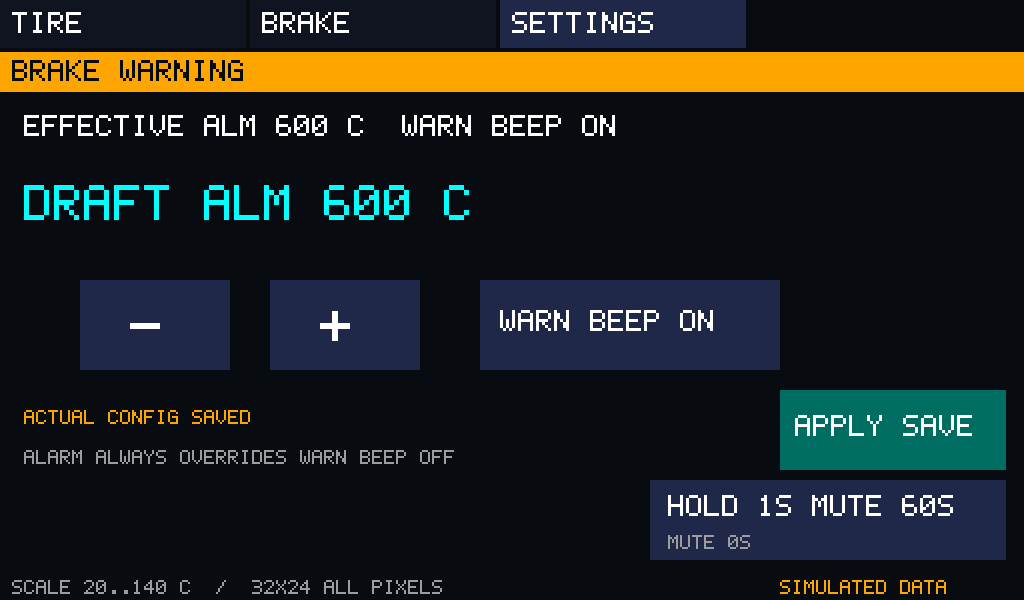
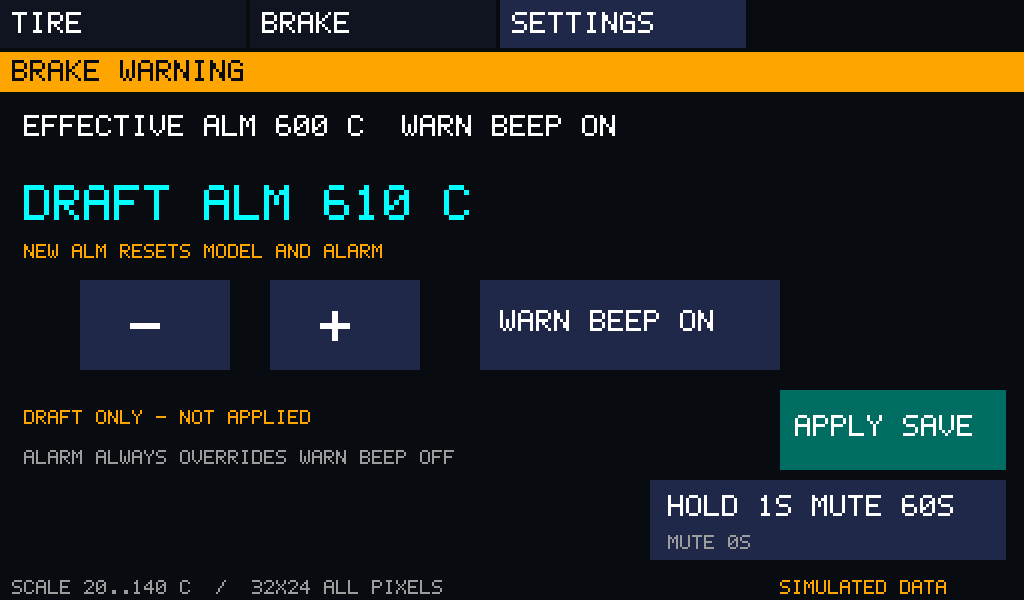
fix: 修复六口控制会话重放与设置结果确认

diff --git a/tests/wired_tire/test_brake_client.cpp b/tests/wired_tire/test_brake_client.cpp
@@ -1,9 +1,18 @@
 #include "board_test_support.h"
 #include "BrakeLinkMaster.h"
 #include <cstring>
+#include "ui_test_support.h"
 static BrakeCommand queued(){BrakeCommand c{};uint32_t t=0;CHECK(decodeBrakeRequest(static_cast<const uint8_t*>(test_hw::masterTransaction->tx_buffer),256,c,t));return c;}
-static void reply(BrakeLinkMaster&client,BrakeTelemetry s,uint64_t now){BrakeDelivery out{};client.poll(now,out);BrakeCommand c{};uint32_t token=0;auto*t=test_hw::masterTransaction;CHECK(decodeBrakeRequest(static_cast<const uint8_t*>(t->tx_buffer),256,c,token));CHECK(encodeBrakeStatus(s,token,static_cast<uint8_t*>(t->rx_buffer),256));test_hw::masterDone=true;CHECK(client.poll(now+1000,out));}
+static BrakeDelivery reply(BrakeLinkMaster&client,BrakeTelemetry s,uint64_t now){BrakeDelivery out{};client.poll(now,out);BrakeCommand c{};uint32_t token=0;auto*t=test_hw::masterTransaction;CHECK(decodeBrakeRequest(static_cast<const uint8_t*>(t->tx_buffer),256,c,token));CHECK(encodeBrakeStatus(s,token,static_cast<uint8_t*>(t->rx_buffer),256));test_hw::masterDone=true;CHECK(client.poll(now+1000,out));return out;}
 int main(){
+ runTest("unknown_readback_terminal_survives_real_ingest_then_pending_result_order",[]{for(auto terminal:{AckResult::AppliedSaved,AckResult::StorageFailed}){
+  BoardSpiBus bus;CHECK(bus.begin(busProfile()));BrakeLinkMaster client(bus);TelemetryUi ui;auto s=validBrakeTelemetry();auto d=reply(client,s,0);ui.ingest(d,1000);tap(ui,650,20,1000);
+  for(unsigned i=0;i<5;++i)tap(ui,300,320,100000+i*100000);CHECK(ui.draft().alarmC==650);auto action=tap(ui,850,420,650000);CHECK(action.kind==UiActionKind::Apply);
+  d=reply(client,s,750000);ui.ingest(d,751000);CHECK(client.submit(action.intent)==SubmitResult::Accepted);ui.commandResult(client.pendingResult());BrakeDelivery ignored{};client.poll(752000,ignored);auto c=queued();CHECK(c.op==CommandOp::ApplySave);
+  s.ack={AckResult::OutcomeUnknown,c.op,c.hostBootId,c.commandId,c.targetBrakeBootId,1};d=reply(client,s,752001);ui.ingest(d,753001);ui.commandResult(client.pendingResult());CHECK(ui.result()==AckResult::OutcomeUnknown);
+  s.ack.result=terminal;if(terminal==AckResult::AppliedSaved){s.config={650,true};s.configVersion=s.savedVersion=s.ack.configVersion=2;}
+  d=reply(client,s,1004000);ui.ingest(d,1005000);ui.commandResult(client.pendingResult());CHECK(client.pendingResult().result==terminal&&ui.result()==terminal);
+ }});
  runTest("timeout_inside_retry_window_stops_all_future_mutations",[]{BoardSpiBus bus;CHECK(bus.begin(busProfile()));BrakeLinkMaster client(bus);auto s=validBrakeTelemetry();reply(client,s,0);CHECK(client.submit({CommandOp::ApplySave,{650,true}})==SubmitResult::Accepted);reply(client,s,2000);reply(client,s,500000);
   BrakeDelivery out{};client.poll(950000,out);CHECK(queued().op==CommandOp::ApplySave);std::memset(test_hw::masterTransaction->rx_buffer,0,256);test_hw::masterDone=true;client.poll(1001001,out);CHECK(client.pendingResult().result==AckResult::OutcomeUnknown);CHECK(queued().op==CommandOp::Read);
  });

diff --git a/tests/wired_tire/test_telemetry_ui.cpp b/tests/wired_tire/test_telemetry_ui.cpp
@@ -2,6 +2,7 @@
 #include <fstream>
 static std::array<wired_tire::SnapshotDelivery,4> tires(){std::array<wired_tire::SnapshotDelivery,4>a{};for(unsigned w=0;w<4;++w){auto&s=a[w].snapshot;s.meta.wheel=wired_tire::WheelId(w+1);s.meta.bootId=1;s.meta.state=wired_tire::FrameState::Valid;s.ageMs=0;s.zones.mirrored=w%2;for(size_t p=0;p<768;++p){s.frame.temp10[p]=int16_t(200+p);s.frame.setValid(p,p!=300);}}return a;}
 int main(int argc,char**argv){
+ runTest("changing_alm_during_alarm_renders_reset_notice_before_apply",[]{TelemetryUi u;BrakeDelivery d{};d.state=validBrakeTelemetry();d.state.state=BrakeState::Alarm;u.ingest(d,0);tap(u,650,20,0);std::vector<uint16_t>before(1024*600),after(1024*600);wired_tire::PixelSurface a{before.data(),1024,600,1024,before.size()},b{after.data(),1024,600,1024,after.size()};u.render(tires(),50000,{},a);tap(u,300,320,100000);u.render(tires(),150000,{},b);bool changed=false;for(size_t y=244;y<260;++y)for(size_t x=24;x<650;++x)changed|=before[y*1024+x]!=after[y*1024+x];CHECK(changed&&u.effective().alarmC==600);});
  runTest("four_full_maps_mirror_invalid_pixels_survive_navigation_alarm",[]{TelemetryUi u;CHECK(u.page()==Page::Tire);BrakeDelivery d{};d.state=validBrakeTelemetry();d.state.state=BrakeState::Alarm;u.ingest(d,0);const auto a=tires();std::vector<uint16_t>pixels(1024*600+2,0xabcd);wired_tire::PixelSurface surface{pixels.data()+1,1024,600,1024,1024*600};u.render(a,0,{},surface);
   for(unsigned w=0;w<4;++w)for(unsigned r=0;r<24;++r)for(unsigned c=0;c<32;++c){const unsigned p=r*32+(w%2?31-c:c);const unsigned x=(w%2)*512+12+c*8+4,y=(w/2)*235+130+r*8+4;CHECK(surface.pixels[y*1024+x]==wired_tire::heatColor(a[w].snapshot.frame.temp10[p],p!=300,{}));}
   CHECK(pixels.front()==0xabcd&&pixels.back()==0xabcd);
@@ -17,6 +18,6 @@ int main(int argc,char**argv){
  });
  if(argc==3&&std::string(argv[1])=="--preview"){
   TelemetryUi u;uiState(u);auto a=tires();std::vector<uint16_t>p(1024*600);wired_tire::PixelSurface s{p.data(),1024,600,1024,p.size()};
-  for(unsigned page=0;page<3;++page){tap(u,uint16_t(100+page*250),20,page*100000);u.render(a,page*100000+50000,{},s,true);std::ofstream f(std::string(argv[2])+"-"+std::to_string(page)+".ppm",std::ios::binary);f<<"P6\n1024 600\n255\n";for(auto v:p){char rgb[]{char(((v>>11)&31)*255/31),char(((v>>5)&63)*255/63),char((v&31)*255/31)};f.write(rgb,3);}CHECK(f.good());}
+  for(unsigned page=0;page<3;++page){tap(u,uint16_t(100+page*250),20,page*100000);if(page==2)tap(u,300,320,300000);u.render(a,page==2?350000:page*100000+50000,{},s,true);std::ofstream f(std::string(argv[2])+"-"+std::to_string(page)+".ppm",std::ios::binary);f<<"P6\n1024 600\n255\n";for(auto v:p){char rgb[]{char(((v>>11)&31)*255/31),char(((v>>5)&63)*255/63),char((v&31)*255/31)};f.write(rgb,3);}CHECK(f.good());}
  }
 }

diff --git a/tests/wired_tire/test_brake_settings.cpp b/tests/wired_tire/test_brake_settings.cpp
@@ -1,5 +1,15 @@
 #include "brake_test_support.h"
 int main(){
+ runTest("retired_session_read_cannot_revive_mute_command",[]{CountingStore s;BrakeModel m;BrakeBuzzer b;BrakeControl ctl(s,m,b);ctl.begin(11,0);ctl.handle(readCommand(7),0);
+  auto mute=saveCommand();mute.op=CommandOp::Mute60;mute.muteMs=60000;CHECK(ctl.handle(mute,0).result==AckResult::Muted);
+  ctl.handle(readCommand(8),1000000);CHECK(ctl.handle(readCommand(7),59000000).result==AckResult::SessionMismatch);CHECK(ctl.handle(mute,59000000).result==AckResult::SessionMismatch);CHECK(b.remainingMs(60000000)==0);
+  mute.hostBootId=8;CHECK(ctl.handle(mute,60000000).result==AckResult::Muted);CHECK(b.remainingMs(60000000)==60000);
+ });
+ runTest("session_history_never_evicts_and_full_history_fails_closed",[]{CountingStore s;BrakeModel m;BrakeBuzzer b;BrakeControl ctl(s,m,b);ctl.begin(11,0);ctl.handle(readCommand(1),0);
+  for(uint32_t h=2;h<=33;++h)CHECK(ctl.handle(readCommand(h),h).result!=AckResult::SessionMismatch);
+  CHECK(ctl.handle(readCommand(34),34).result==AckResult::SessionMismatch);CHECK(ctl.handle(readCommand(1),35).result==AckResult::SessionMismatch);
+  auto c=saveCommand();c.hostBootId=33;c.op=CommandOp::Mute60;c.muteMs=60000;CHECK(ctl.handle(c,36).result==AckResult::Muted);
+ });
  runTest("save_then_apply_once_and_lost_ack_retry_no_extra_flash_or_reset",[]{
   CountingStore s;BrakeModel m;BrakeBuzzer b;BrakeControl ctl(s,m,b);CHECK(s.loads==0);ctl.begin(11,0);ctl.handle(readCommand(),0);
   auto c=saveCommand();CHECK(ctl.handle(c,1).result==AckResult::AppliedSaved);CHECK(ctl.configVersion()==1&&ctl.config().alarmC==650&&s.commitCount==1);

diff --git a/tests/wired_tire/test_package.py b/tests/wired_tire/test_package.py
@@ -74,6 +74,20 @@ class PackageTests(unittest.TestCase):
             self.assertNotEqual(result.returncode, 0)
             self.assertFalse(output.exists())
 
+    def test_copied_source_does_not_inherit_parent_repo_commit(self):
+        git=shutil.which('git')
+        if not git:self.skipTest('git unavailable')
+        with tempfile.TemporaryDirectory(prefix='six-nested-git-') as folder:
+            folder=pathlib.Path(folder);parent=folder/'parent';parent.mkdir()
+            subprocess.run([git,'-C',str(parent),'init','-q'],check=True,capture_output=True)
+            subprocess.run([git,'-C',str(parent),'-c','user.name=Fixture','-c','user.email=fixture@example.invalid',
+                            'commit','--allow-empty','-qm','fixture'],check=True,capture_output=True)
+            source,output=parent/'source',folder/'output';self.fixture(source);result=self.package(source,output)
+            self.assertEqual(result.returncode,0,result.stdout+result.stderr)
+            package=next(x for x in output.glob('offline-*') if x.is_dir())
+            manifest=json.loads((package/'MANIFEST.json').read_text(encoding='utf-8-sig'))
+            self.assertEqual(manifest['source_commit'],'unversioned')
+
     def test_missing_brake_driver_or_vendor_source_rejected_before_export(self):
         for missing in ('firmware/wired_brake_channel/wired_brake_channel.ino',
                         'firmware/wired_brake_channel/BrakeNvsStore.cpp',

diff --git a/firmware/libraries/WiredTireCore/src/BrakeSettings.cpp b/firmware/libraries/WiredTireCore/src/BrakeSettings.cpp
@@ -27,6 +27,7 @@ LoadResult selectPersist(const uint8_t*a,const uint8_t*b,PersistRecord&out,bool&
 }
 void BrakeControl::begin(uint32_t boot,uint64_t now){
  boot_=boot;host_=highWater_=0;cache_={};next_=0;unknown_=false;ack_={};effective_={};effective_.origin=0;saved_=recovered_=false;begun_=boot!=0;
+ retiredHosts_={};retiredCount_=0;
  PersistRecord r{};const auto load=store_.load(r);
  if(load==LoadResult::Valid&&validConfig(r.config)){effective_=r;saved_=r.origin==1&&r.version>0;recovered_=r.recovered||r.origin!=1;}
  else recovered_=load!=LoadResult::Missing;
@@ -50,7 +51,12 @@ BrakeAck BrakeControl::handle(const BrakeCommand&c,uint64_t now){
  if(!begun_||!c.hostBootId)return makeAck(c,AckResult::Invalid);
  if(c.op==CommandOp::Read){
   if(c.targetBrakeBootId&&c.targetBrakeBootId!=boot_)return makeAck(c,AckResult::StaleBoot);
-  if(host_!=c.hostBootId){host_=c.hostBootId;highWater_=0;cache_={};next_=0;}
+  if(host_!=c.hostBootId){
+   for(size_t i=0;i<retiredCount_;++i)if(retiredHosts_[i]==c.hostBootId)return makeAck(c,AckResult::SessionMismatch);
+   // Never evict replay protection. At capacity require a brake reboot before accepting another host.
+   if(host_){if(retiredCount_==retiredHosts_.size())return makeAck(c,AckResult::SessionMismatch);retiredHosts_[retiredCount_++]=host_;}
+   host_=c.hostBootId;highWater_=0;cache_={};next_=0;
+  }
   return ack_;
  }
  if(c.hostBootId!=host_)return makeAck(c,AckResult::SessionMismatch);

diff --git a/firmware/wired_tire_display/BrakeLinkMaster.cpp b/firmware/wired_tire_display/BrakeLinkMaster.cpp
@@ -27,7 +27,14 @@ bool BrakeLinkMaster::poll(uint64_t now,BrakeDelivery&out){
      else if(a.result==AckResult::OutcomeUnknown)readingBack_=true;
     }else if(s.brakeBootId!=command_.targetBrakeBootId||s.configVersion!=command_.expectedConfigVersion)unknown();
    }
-   if(readingBack_&&wireCommand_.op==CommandOp::Read&&fresh&&s.ack.result!=AckResult::OutcomeUnknown&&s.ack.result!=AckResult::Pending)readingBack_=false;
+   if(readingBack_&&wireCommand_.op==CommandOp::Read&&fresh&&s.ack.result!=AckResult::OutcomeUnknown&&s.ack.result!=AckResult::Pending){
+    const auto&a=s.ack;const bool matching=s.brakeBootId==command_.targetBrakeBootId&&a.hostBootId==host_&&a.commandId==command_.commandId&&a.targetBrakeBootId==command_.targetBrakeBootId&&a.op==command_.op;
+    const bool actualSaved=s.brakeBootId==command_.targetBrakeBootId&&command_.op==CommandOp::ApplySave&&s.configValid&&s.saved&&s.config==command_.candidate;
+    bool resolved=true;
+    if(matching&&a.result!=AckResult::None){if(a.result==AckResult::AppliedSaved&&(!actualSaved||a.configVersion!=s.configVersion))resolved=false;else ack_=a;}
+    else if(actualSaved){ack_.result=AckResult::AppliedSaved;ack_.configVersion=s.configVersion;}
+    readingBack_=!resolved;
+   }
   }
  }
  if(window_&&(now<started_||now-started_>=100000)){window_=false;next_=deadlineAfter(now,500000);}

diff --git a/firmware/libraries/WiredTireCore/src/TelemetryUi.cpp b/firmware/libraries/WiredTireCore/src/TelemetryUi.cpp
@@ -71,6 +71,7 @@ void TelemetryUi::render(const std::array<wired_tire::SnapshotDelivery,4>&tires,
  else{
   if(view.stateFresh)std::snprintf(label,sizeof(label),"EFFECTIVE ALM %u C  WARN BEEP %s",b.config.alarmC,b.config.warningBeep?"ON":"OFF");else std::snprintf(label,sizeof(label),"EFFECTIVE CONFIG UNKNOWN");text(s,24,115,label,3,white);
   std::snprintf(label,sizeof(label),"DRAFT ALM %u C",draft_.alarmC);text(s,24,185,label,5,cyan);
+  if(view.stateFresh&&draft_.alarmC!=b.config.alarmC)text(s,24,244,"NEW ALM RESETS MODEL AND ALARM",2,amber);
   fill(s,80,280,150,90,0x2149);text(s,130,305,"-",6,white);fill(s,270,280,150,90,0x2149);text(s,320,305,"+",6,white);
   fill(s,480,280,300,90,0x2149);text(s,500,310,draft_.warningBeep?"WARN BEEP ON":"WARN BEEP OFF",3,white);
   fill(s,780,390,226,80,pending_?0x4208:0x036c);text(s,795,415,pending_?"WAIT":"APPLY SAVE",3,white);

diff --git a/tests/wired_tire/test_brake_buzzer.cpp b/tests/wired_tire/test_brake_buzzer.cpp
@@ -2,6 +2,9 @@
 #include "BrakeBuzzer.h"
 using namespace wired_brake;
 int main(){
+ runTest("nonblocking_startup_60_gap80_40_respects_warning_and_mute",[]{BrakeBuzzer b;b.begin(0);for(uint64_t t:{0ull,59999ull,140000ull,179999ull})CHECK(b.output(BrakeState::Ok,true,t));for(uint64_t t:{60000ull,139999ull,180000ull,2999999ull})CHECK(!b.output(BrakeState::Ok,true,t));
+  b.begin(0);CHECK(!b.output(BrakeState::Ok,false,0)&&!b.output(BrakeState::Ok,false,140000));b.begin(0);b.mute60(0);CHECK(!b.output(BrakeState::Ok,true,0));
+ });
  runTest("startup_3s_and_warn_alarm_patterns",[]{BrakeBuzzer b;b.begin(0);
   CHECK(!b.output(BrakeState::Alarm,true,2999999));CHECK(b.output(BrakeState::Alarm,true,3000000));
   CHECK(!b.output(BrakeState::Alarm,true,3150000));CHECK(b.output(BrakeState::Alarm,true,3300000));

diff --git a/firmware/libraries/WiredTireCore/src/BrakeBuzzer.cpp b/firmware/libraries/WiredTireCore/src/BrakeBuzzer.cpp
@@ -7,7 +7,10 @@ uint32_t BrakeBuzzer::remainingMs(uint64_t now)const{
 bool BrakeBuzzer::output(BrakeState state,bool warning,uint64_t now){
   if(lastState_==BrakeState::Alarm&&state!=BrakeState::Alarm)muted_=false;
   lastState_=state;
-  if(!begun_||now<boot_||now-boot_<3000000||remainingMs(now))return false;
+  if(!begun_||now<boot_||remainingMs(now))return false;
+  const auto startup=now-boot_;
+  if(startup<180000)return warning&&(startup<60000||startup>=140000);
+  if(startup<3000000)return false;
   if(state==BrakeState::Alarm)return (now-boot_)%300000<150000;
   if(state==BrakeState::Warn&&warning)return (now-boot_)%1500000<80000;
   return false;

diff --git a/firmware/libraries/WiredTireCore/src/BrakeSettings.h b/firmware/libraries/WiredTireCore/src/BrakeSettings.h
@@ -34,6 +34,7 @@ class BrakeControl {
   PersistRecord effective_{},pendingRecord_{};BrakeCommand pendingCommand_{};BrakeAck ack_{};
   uint32_t boot_=0,host_=0,highWater_=0;bool begun_=false,saved_=false,recovered_=false,unknown_=false;
   uint64_t nextRead_=0;std::array<Entry,8> cache_{};size_t next_=0;
+  std::array<uint32_t,32> retiredHosts_{};size_t retiredCount_=0;
   BrakeAck makeAck(const BrakeCommand&,AckResult)const;
   BrakeAck remember(const BrakeCommand&,AckResult);
   void activate(const PersistRecord&,uint64_t now);

diff --git a/hardware/wired_tire_central/notes/final_review_six_port.md b/hardware/wired_tire_central/notes/final_review_six_port.md
@@ -1,0 +1,22 @@
+# 六口离线分支最终审查记录
+
+唯一新上下文只读审查范围：31d861a..b9bfa30；结论With fixes，无Critical，4项Important、2项Minor。审阅者没有修改代码或复跑编译。主执行者进行一次RED→GREEN修复，不派二次审查。
+
+4项已修复：退出会话Read重放复活静音；Unknown读回后旧客户端回执覆盖真实终态；遗漏非阻塞启动提示；缺少应用ALM会重置模型/报警提示。复现测试见test_brake_settings/client/buzzer/telemetry_ui；修复后110原生命名测试、15项工具测试全绿，最终软件包的独立解压结果另由交付校验记录给出，打包器不自称已运行验证。
+
+## 保留的轻微问题
+
+- 控制器失联后，静音剩余秒数可能仍显示最后一次值；顶部全局丢失提示保留，实际蜂鸣由C3独立计时，不受影响。
+- 刹车页暂未单列最大有效盘温；左右实测盘温已显示，RaceChrono 0x102仍有最大值。
+
+## 执行判断与限制
+
+- 仅完成离线软件；实物五类关卡未关闭，不能据此投板或宣称车上可用。
+- 复用现有隔离工作树与固定工具链，未升级全局SDK；换机器需配置编译器/SDK路径。
+- C3构建时推进独立P4工作，P4构建时准备独立文档/打包；一次完整审查与独立解压验证重叠。代价是交叉步骤可能漂移，最终源码与解压包全矩阵必须重新通过才能交付。
+- 会话历史固定32个退出host、不淘汰，超容量拒绝新控制会话以防重放；代价是同次刹车启动切换超过32次需重启刹车MCU。采集/报警/BLE不受控制会话容量影响。
+- 保留计划记录与工作树供未完成实物关卡使用，代价为额外磁盘占用。
+
+审查者搁置的判断均保留：VO4/绑带/C3实际引脚/DE/汽车电源与EMC；真实探头时序/独立串口隔离/NVS停顿与掉电；五BLE/手机公式和无效值；实屏FPS/连续触摸/撕裂/背光电平。这些都需要实物证据，代价是相关可靠性和兼容性未验证。最终编译、测试与解压包矩阵由主执行者独立运行，审查者不重复，保留验证过程独立性限制。
+
+交付验收另复现并修复源码目录嵌套于其他Git仓库时错误继承父提交号的问题：test_copied_source_does_not_inherit_parent_repo_commit RED→GREEN，非自身仓库根的源码标为unversioned。最终源提交和包哈希通过单独交付记录关联。

diff --git a/hardware/wired_tire_central/notes/validation_six_port_offline.md b/hardware/wired_tire_central/notes/validation_six_port_offline.md
@@ -6,6 +6,6 @@
 
 离线覆盖：20ms双路Modbus期限/噪声隔离、0/负温/量程、V1.6模型/64位时间/长停顿、蜂鸣/60秒静音、双槽CRC/损坏槽恢复/Unknown、配置/会话/缓存重放、256字节BrakeLink与独立年龄、八PID/过滤、五从机DMA租约、命令超时停止变更重发、三页全像素/镜像/越界/触摸长按/回执状态及GT911原始报告、未核准profile前拒绝IO。
 
-本次原生测试实际105个命名测试、22组全部通过；Python实际14项通过（含旧包不覆写）。prev3/postv3两变体均显式PSRAM=enabled且已编译/链接，刹车显式CDCOnBoot=cdc。最终交付需在源码提交后从ZIP重新解压，逐文件SHA256校验，再运行原生/Python及channel/brake/display两变体矩阵；具体最终结果补于本文件末尾。
+本次原生测试实际110个命名测试、22组全部通过；Python实际15项通过（含旧包不覆写）。prev3/postv3两变体均显式PSRAM=enabled且已编译/链接，刹车显式CDCOnBoot=cdc。最终交付需在源码提交后从ZIP重新解压，逐文件SHA256校验，再运行原生/Python及channel/brake/display两变体矩阵；具体最终结果由同目录 offline_release_verification.json 随交付提供，记录对应软件源提交，不依赖包内自证。
 
 已有0.1包和59项原生/10项工具结果只属于历史四轮包，不充当本次新包结果。预览为SIMULATED DATA，已检查三页1024×600布局，不是实屏或实测FPS。
